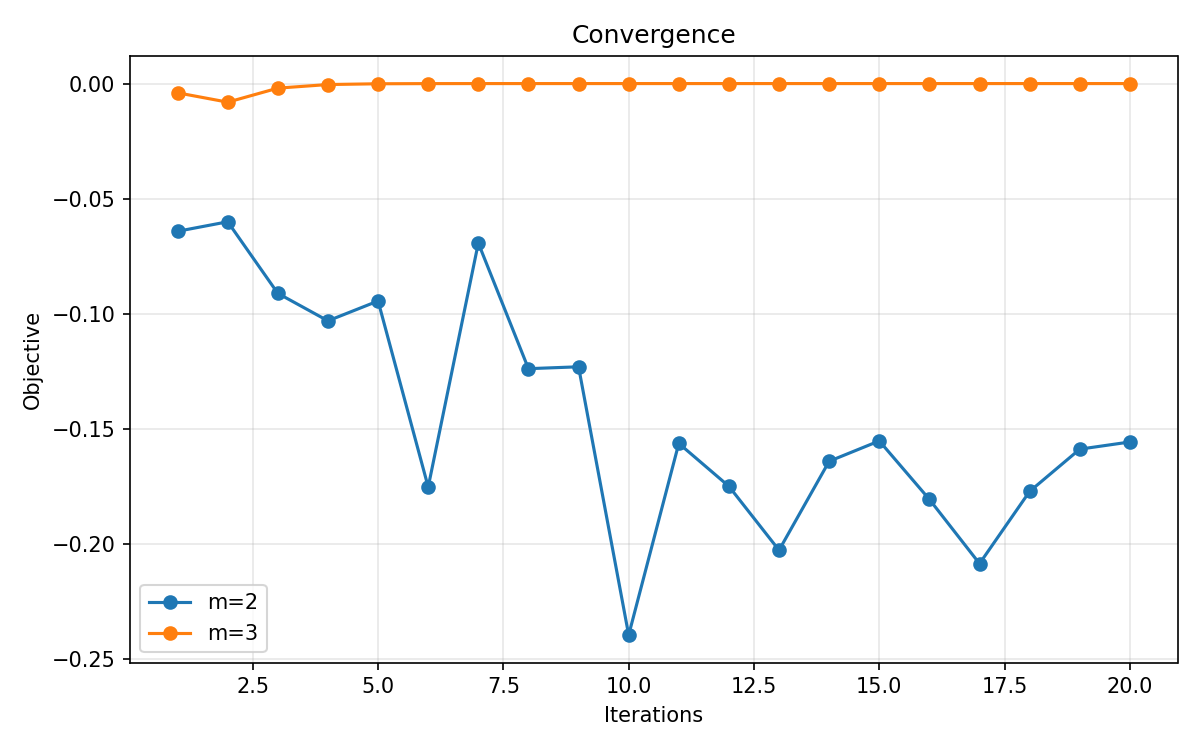
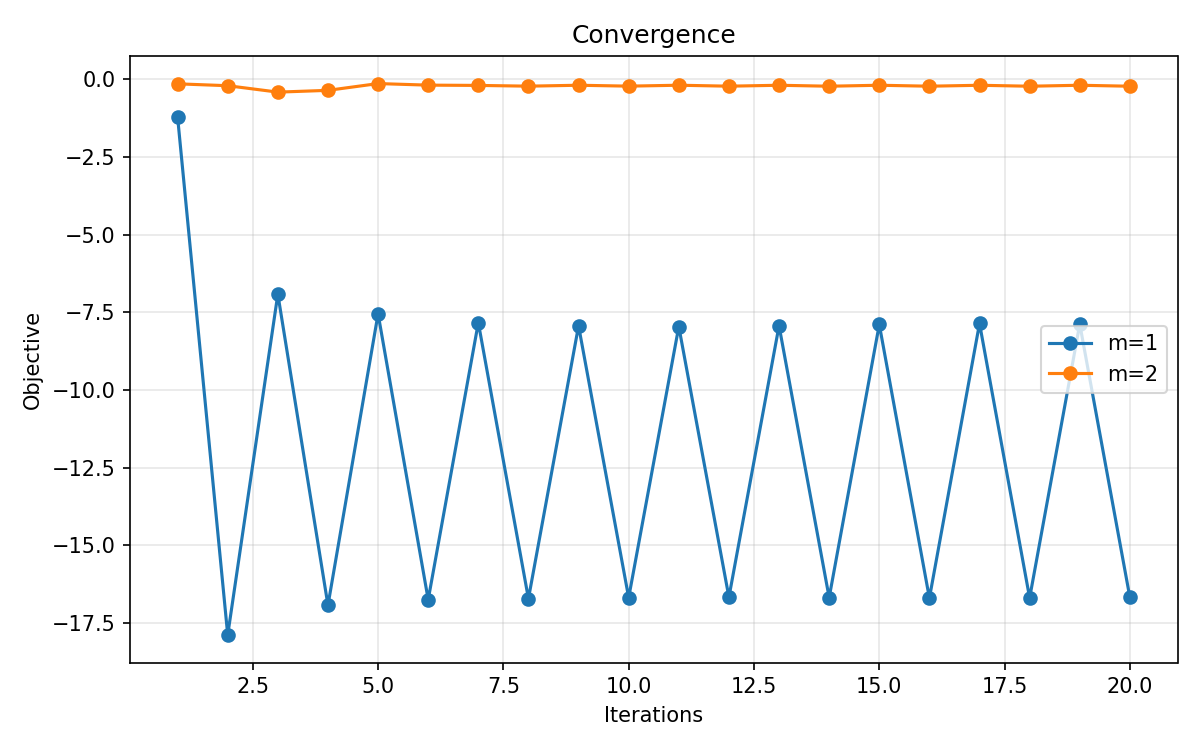
committed

diff --git a/new_model_2024/optimization.py b/new_model_2024/optimization.py
@@ -107,18 +107,16 @@ def optimize_trajectory(E_m, comm_users, S_hover_all, S_total,
         delta = cp.Variable(N_m, nonneg=True)
         xi = cp.Variable(N_m, nonneg=True)
 
-        # CRB Taylor (want to minimize → descent direction)
-        CRB_taylor = (crb_gx @ (S[0, hover_idx] - S_init[0, hover_idx])
-                      + crb_gy @ (S[1, hover_idx] - S_init[1, hover_idx]))
+        delta_CRB = (crb_gx @ (S[0, hover_idx] - S_init[0, hover_idx])
+                + crb_gy @ (S[1, hover_idx] - S_init[1, hover_idx]))
 
-        # Rate Taylor (want to maximize → ascent direction)
-        R_taylor = (rate_gx @ (S[0, :] - S_init[0, :])
-                    + rate_gy @ (S[1, :] - S_init[1, :]))
+        delta_Rate = (rate_gx @ (S[0, :] - S_init[0, :])
+                 + rate_gy @ (S[1, :] - S_init[1, :]))
 
         # Normalized increment: minimize η·(CRB/Ψ^s_prev) - (1-η)·(R/Ψ^c_prev)
         obj = cp.Minimize(
-            eta * CRB_taylor / sens_norm
-            - (1 - eta) * R_taylor / comm_norm
+            eta * (-delta_CRB / sens_norm)
+                       + (1 - eta) * (delta_Rate / comm_norm)
         )
 
         cons = [E_m >= _build_energy_cvx(V, delta, N_m, K_m)]

diff --git a/new_model_2024/crb_functions.py b/new_model_2024/crb_functions.py
@@ -21,11 +21,11 @@ def fisher_mat_entry(S_hov, s_target, entry_type):
     dy = S_hov[1, :] - s_target[1]
 
     if entry_type == 'theta_a':
-        return factor_CRB * np.sum(dx**2 / ds**6) + 8 * np.sum(dx**2 / ds**4)
+        return factor_CRB * np.sum(dx ** 2 / ds ** 6)
     elif entry_type == 'theta_b':
-        return factor_CRB * np.sum(dy**2 / ds**6) + 8 * np.sum(dy**2 / ds**4)
+        return factor_CRB * np.sum(dy ** 2 / ds ** 6)
     elif entry_type == 'theta_c':
-        return factor_CRB * np.sum(dx * dy / ds**6) + 8 * np.sum(dx * dy / ds**4)
+        return factor_CRB * np.sum(dx * dy / ds ** 6)
 
 
 # ======================== CRB for ONE target (eq. 31, TWC) ========================

diff --git a/new_model_2024/multi_stage.py b/new_model_2024/multi_stage.py
@@ -88,8 +88,8 @@ def multi_stage(setup=None, eta_val=None, n_iter_val=None, verbose=True):
 
     # Initial metrics (from coarse estimate)
     # Use a dummy trajectory to get initial Ψ^s, Ψ^c
-    # prev_sens = 1e6   # large initial CRB
-    # prev_comm = 1e-6   # small initial rate
+    prev_sens = None
+    prev_comm = None
     def get_initial_metrics(S_init_traj, hover_idx_init, targets_est_curr, comm_users_curr, B_alloc_curr):
         S_hov_init = S_init_traj[:, hover_idx_init]
         curr_sens = sens_metric(S_hov_init, targets_est_curr)

diff --git a/new_model_2024/rate_functions.py b/new_model_2024/rate_functions.py
@@ -6,7 +6,8 @@ Uses LSE smoothing for differentiability (eq. 37, TWC).
 import numpy as np
 from parameters import P, alpha_0, N_0, B, H, T_f, T_h, mu, M as M_users
 from models import user_quad_distance, get_hover_indices
-
+# compute using FULL trajectory
+from rate_functions import all_user_throughputs
 
 # ======================== Per-User Throughput ========================
 
